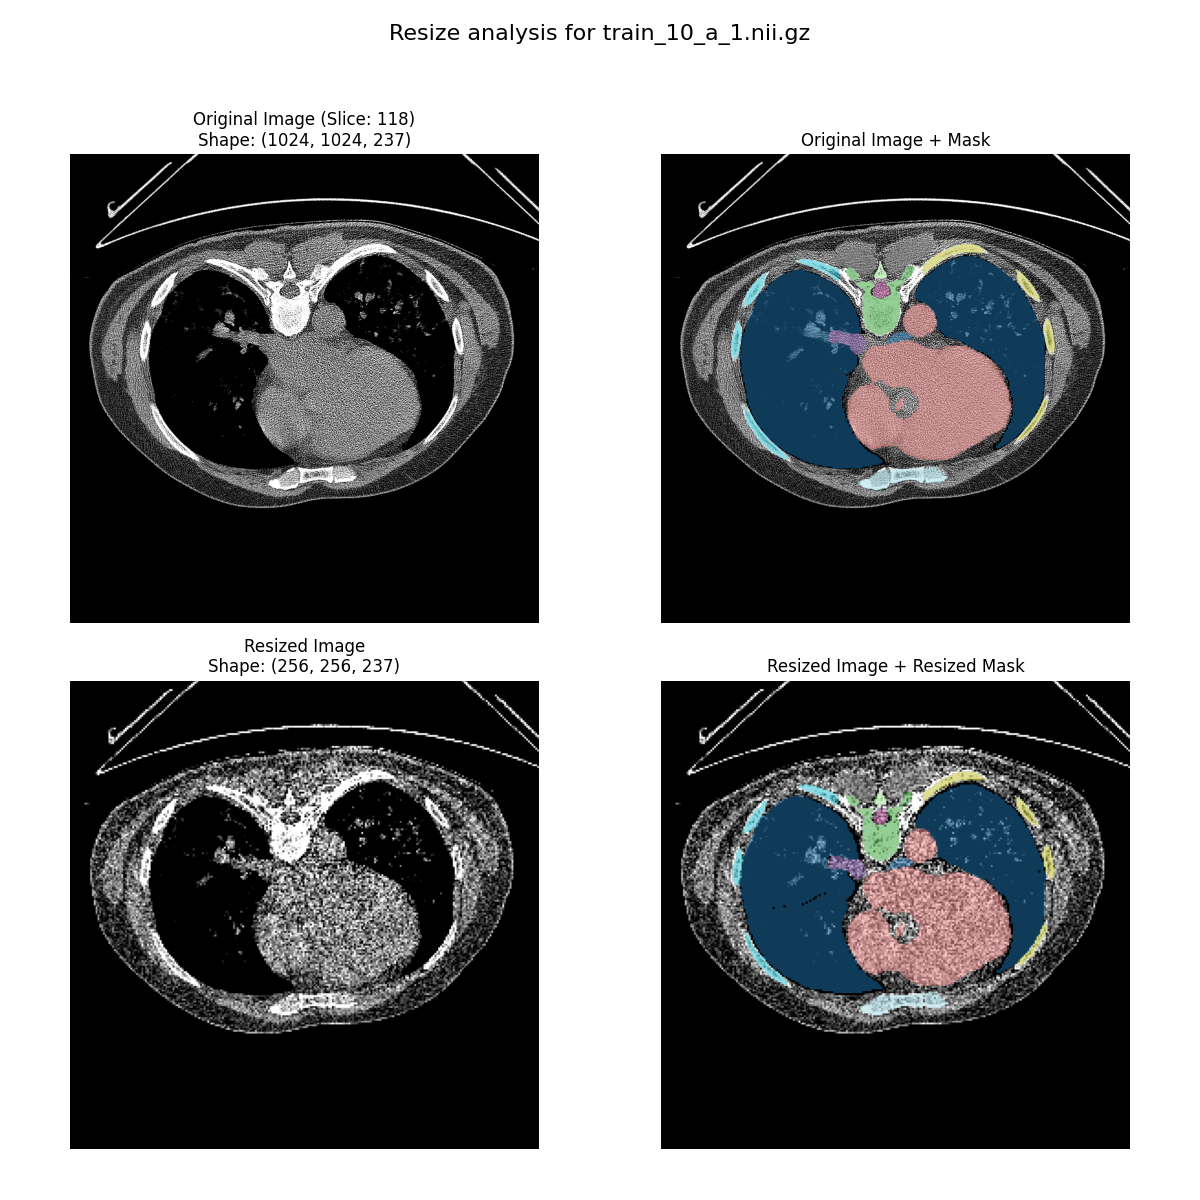
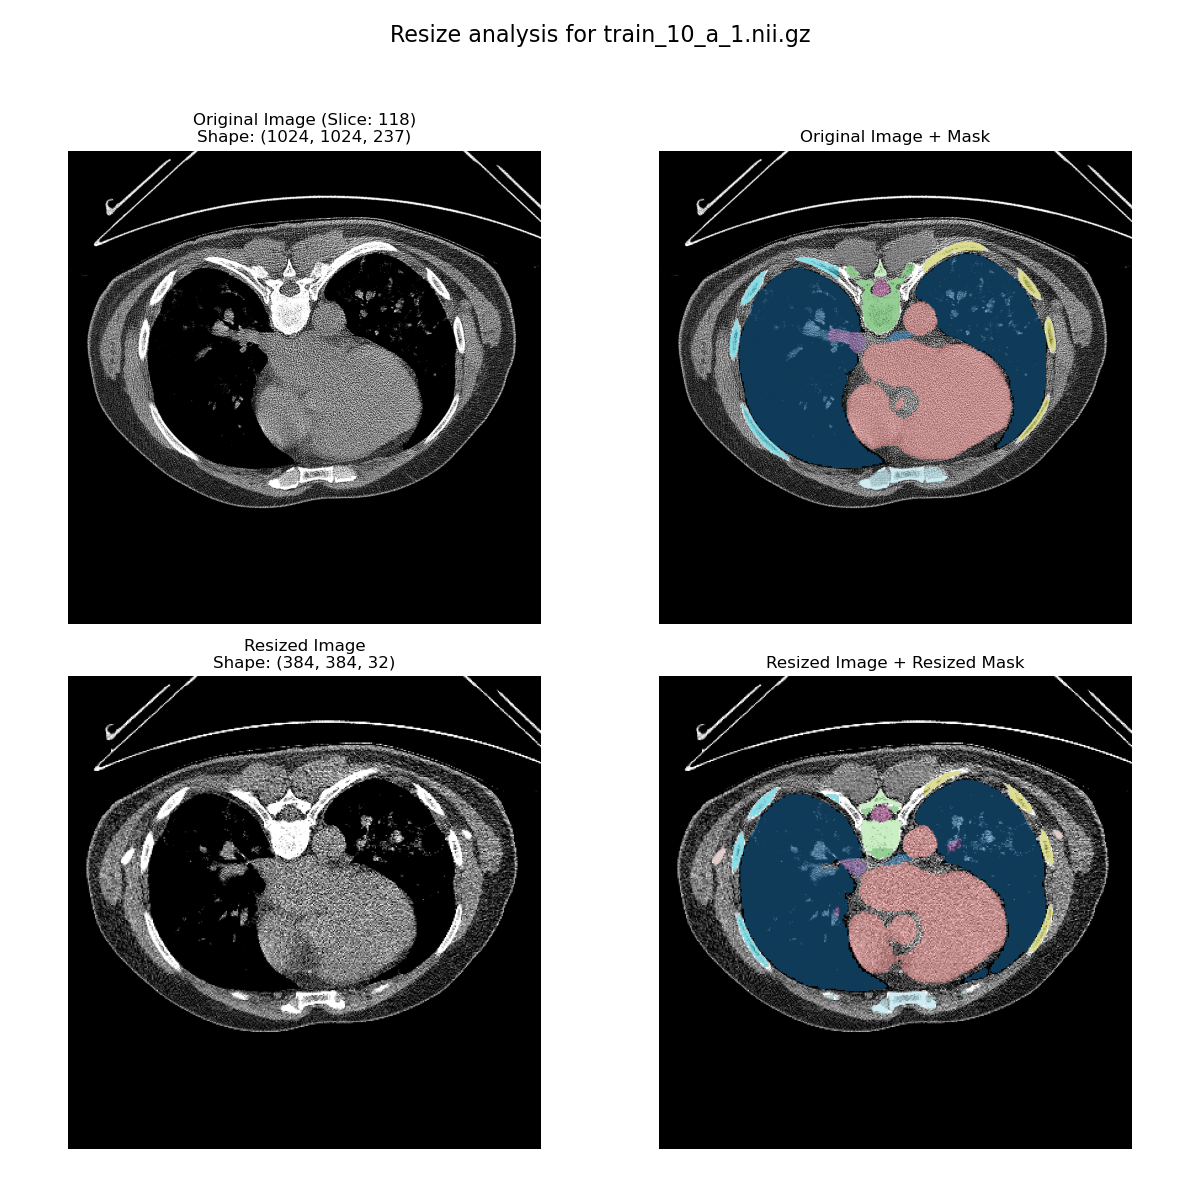
description: change to monai's interpolation. btw also get D polated.
Author: Mayrain

diff --git a/src/main.py b/src/main.py
@@ -2,10 +2,14 @@ import os
 import numpy as np
 import matplotlib.pyplot as plt
 import argparse
+import torch
 from scipy.ndimage import zoom
+from scipy.ndimage import find_objects
 
 from visual import create_comparison_figure
 from data import load_data
+
+import monai.transforms as mtf
 
 # 一些常量。注意自定义。
 # 懒得用参数了直接写成硬编码了。
@@ -15,19 +19,19 @@ DATA_BASE_DIR = os.path.join(BASE_DIR, "data", "CT_RATE", "dataset")
 OUTPUT_DIR = os.path.join(BASE_DIR, "processing_output_pic")
 os.makedirs(OUTPUT_DIR, exist_ok=True)
 
-TARGET_SHAPE_2D = (256, 256)
+TARGET_SHAPE_3D = (384, 384, 32)
 
-
+'''
 def resize_image(image, target_shape):
-    '''
     input:
     1. image: 图像源文件。
     2. target_shape：想要resize的尺寸
     
     output:
     1. resized_image：resize后的图像
-    '''
+'''
 
+'''
     original_shape = image.shape
 
     zoom_factors = (
@@ -40,9 +44,32 @@ def resize_image(image, target_shape):
     resized_image = zoom(image, zoom_factors, order=3, mode='nearest')
 
     return resized_image
+'''
 
+    # 接下来换用monai库，一个更加成熟的实现。
+    # 但是注意维度排序。。。而且必须是4维
+def resize_image(image, transform_pipeline):
+    print("信息：MONAI 执行 resize_image()。")
+    image_with_channel = np.expand_dims(image, axis=0)
+    image_monai_format = np.transpose(image_with_channel, (0, 3, 2, 1))
 
-def resize_mask(mask, target_shape):
+    image_tensor = torch.from_numpy(image_monai_format.copy()) # .copy() 避免 stride 问题
+
+    # 3. 应用 MONAI 的 transform pipeline
+    resized_tensor = transform_pipeline(image_tensor)
+
+    # 4. 将处理后的 Tensor 转回 Numpy 数组
+    resized_numpy = resized_tensor.numpy()
+
+    # 5. 维度重排：从 (C, D, H, W) -> (W, H, D)
+    # a. 交换维度，变回 (1, W, H, D)
+    image_original_format = np.transpose(resized_numpy, (0, 3, 2, 1))
+    # b. 去掉 Channel 维度，变回 (W, H, D)
+    final_image = np.squeeze(image_original_format, axis=0)
+
+    return final_image
+
+# def resize_mask(mask, target_shape):
     # print("信息：正在使用高级语义保持算法执行 resize_mask()。")
     
     # original_shape = mask.shape
@@ -74,14 +101,13 @@ def resize_mask(mask, target_shape):
     #     # 为当前器官创建一个二值掩膜 (1.0 vs 0.0)
     #     binary_mask = (mask == organ_id).astype(np.float32)
         
-    #     # 使用高质量插值算法进行平滑缩放
-    #     # order=3 表示三次样条插值
+    #     # 三次插值算法进行平滑缩放
     #     resized_prob_map = zoom(binary_mask, zoom_factors, order=3, mode='nearest')
         
     #     # 将缩放后的概率图存入列表
     #     resized_prob_maps.append(resized_prob_map)
 
-    # # --- 步骤 3: 重组 ---
+    # # 第三步：重组
 
     # # a. 将所有概率图沿着一个新的轴（axis=0）堆叠起来
     # # 结果是一个4D数组，形状为 (器官数量, width, height, depth)
@@ -97,10 +123,6 @@ def resize_mask(mask, target_shape):
     # # 这就完成了从索引到真实ID的转换
     # final_mask = organ_ids[argmax_indices]
     
-    # # d. (可选但推荐) 处理背景：
-    # # 如果一个像素在所有概率图中都具有很低的值，它应该被视为背景(0)，
-    # # 而不是被强制分配给概率最高的那个（即使那个概率也很低）。
-    # # 我们取所有概率的最大值，如果最大值小于一个阈值（例如0.5），就认为是背景。
     # max_probs = np.max(stacked_maps, axis=0)
     # background_pixels = max_probs < 0.5
     # final_mask[background_pixels] = 0
@@ -128,6 +150,7 @@ def resize_mask(mask, target_shape):
     '''
 
     # 以下是采用bounding box约束计算量
+    '''
     from scipy.ndimage import find_objects
 
     print("信息：新算法执行 resize_mask()。")
@@ -201,8 +224,55 @@ def resize_mask(mask, target_shape):
     max_probs = np.max(prob_volume, axis=0)
     final_mask[max_probs < 0.5] = 0
     
-    return final_mask.astype(mask.dtype)
+    return final_mask.astype(mask.dtype)'''
     
+def resize_mask(mask, transform_pipeline):
+    print("信息：正在使用 MONAI 管线执行高级语义保持 resize_mask()。")
+
+    # 1. 准备工作
+    if not np.issubdtype(mask.dtype, np.integer):
+        mask = mask.astype(np.int32)
+
+    organ_ids = np.unique(mask)
+    organ_ids = organ_ids[organ_ids != 0]
+
+    monai_target_size = transform_pipeline.transforms[0].spatial_size
+    target_shape = (monai_target_size[2], monai_target_size[1], monai_target_size[0])
+
+    if len(organ_ids) == 0:
+        return np.zeros(target_shape, dtype=mask.dtype)
+    
+    # 创建4D概率volume，用于存储所有器官的概率图
+    prob_volume = np.zeros((organ_ids.max() + 1, *target_shape), dtype=np.float32)
+
+    # 2. 对每一个器官，在完整的、未裁剪的掩膜上进行操作
+    for organ_id in organ_ids:
+        # a. 创建一个与原始掩膜尺寸完全相同的全尺寸二值掩膜
+        binary_mask_full_size = (mask == organ_id).astype(np.float32)
+
+        # b. 【核心】将这个全尺寸的二值掩膜传递给 MONAI 进行缩放
+        #    b1. 转换为 MONAI 期望的格式 (C, D, H, W)
+        binary_mask_with_channel = np.expand_dims(binary_mask_full_size, axis=0)
+        binary_mask_monai_format = np.transpose(binary_mask_with_channel, (0, 3, 2, 1))
+        binary_tensor = torch.from_numpy(binary_mask_monai_format.copy())
+
+        #    b2. 应用与影像完全相同的变换管线
+        resized_tensor = transform_pipeline(binary_tensor)
+        
+        #    b3. 将结果转回我们熟悉的 Numpy 格式 (W, H, D)
+        resized_numpy = resized_tensor.numpy()
+        resized_prob_map = np.squeeze(np.transpose(resized_numpy, (0, 3, 2, 1)), axis=0)
+        
+        # c. 将得到的、尺寸正确的概率图直接放入概率volume的对应层
+        prob_volume[organ_id] = resized_prob_map
+
+    # 3. 最终决策
+    final_mask = np.argmax(prob_volume, axis=0)
+    max_probs = np.max(prob_volume, axis=0)
+    final_mask[max_probs < 0.5] = 0
+    
+    return final_mask.astype(mask.dtype)
+
 
 def parse_arguments():
     parser = argparse.ArgumentParser(description="处理并可视化3D医疗影像。")
@@ -215,11 +285,16 @@ def parse_arguments():
 def main():
     args = parse_arguments()
 
-    # --- B. 选择一张图片进行处理 ---
-    # 这里打算做一个扫描 + 遍历，subid只有1和2。
-    test_img_id = '10'
+    # 这里未来打算做一个扫描 + 遍历，subid只有1和2。
+    #目前只做了单图片的选择。
+    test_img_id = '100'
     test_sub_id = '1'
 
+    monai_target_size = [TARGET_SHAPE_3D[2], TARGET_SHAPE_3D[1], TARGET_SHAPE_3D[0]]
+
+    monai_transform = mtf.Compose([
+        mtf.Resize(spatial_size=monai_target_size, mode="bilinear", align_corners=False)
+    ])
 
     data_pack = load_data(DATA_BASE_DIR, test_img_id, test_sub_id, verbose=False) # 默认简洁输出
 
@@ -228,42 +303,39 @@ def main():
         original_mask = data_pack["mask_data"]
         file_name = data_pack["file_name"]
         
-        # --- C. 执行Resize ---
         original_shape_3d = original_image.shape
-        target_shape_3d = (TARGET_SHAPE_2D[0], TARGET_SHAPE_2D[1], original_shape_3d[2])
+        target_shape_3d = TARGET_SHAPE_3D
         print(f"处理文件: {file_name}")
         print(f"原始尺寸: {original_shape_3d} -> 目标尺寸: {target_shape_3d}")
         
-        resized_image = resize_image(original_image, target_shape_3d)
-        resized_mask = resize_mask(original_mask, target_shape_3d)
+        resized_image = resize_image(original_image, monai_transform)
+        resized_mask = resize_mask(original_mask, monai_transform)
         
-        # --- D. 准备可视化所需的数据切片 ---
-        slice_idx = original_shape_3d[2] // 2
-        original_slice = original_image[:, :, slice_idx]
-        original_mask_slice = original_mask[:, :, slice_idx]
-        resized_slice = resized_image[:, :, slice_idx]
-        resized_mask_slice = resized_mask[:, :, slice_idx]
+        # 准备可视化所需的数据切片
+        slice_idx_original = original_shape_3d[2] // 2
+        slice_idx_resized = target_shape_3d[2] // 2 # 使用新的目标深度
 
-        # --- E. 创建、保存和（有条件地）显示图像 ---
-        
-        # 1. 调用 visual.py 中的函数来创建图形对象
+        original_slice = original_image[:, :, slice_idx_original]
+        original_mask_slice = original_mask[:, :, slice_idx_original]
+        resized_slice = resized_image[:, :, slice_idx_resized]
+        resized_mask_slice = resized_mask[:, :, slice_idx_resized]
+
         comparison_figure = create_comparison_figure(
             original_slice, original_mask_slice,
             resized_slice, resized_mask_slice,
-            original_shape_3d, target_shape_3d, slice_idx, file_name
+            original_shape_3d, target_shape_3d, slice_idx_original, file_name
         )
 
-        # 2. 保存逻辑 (总是执行)
+        # 保存逻辑
         output_filename = os.path.join(OUTPUT_DIR, f"resize_comparison_{file_name.replace('.nii.gz', '')}.png")
-        comparison_figure.savefig(output_filename) # 使用 figure 对象自带的保存方法
+        comparison_figure.savefig(output_filename)
         print(f"对比图已保存至: {output_filename}")
 
-        # 3. 显示逻辑 (根据命令行参数决定是否执行)
+        # 显示逻辑
         if args.visualize:
             print("参数 '--visualize' 已设置，正在显示结果窗口...")
             plt.show()
         
-        # 4. 关闭图形以释放内存，这是一个好习惯
         plt.close(comparison_figure)
 
         print("处理完成。")
